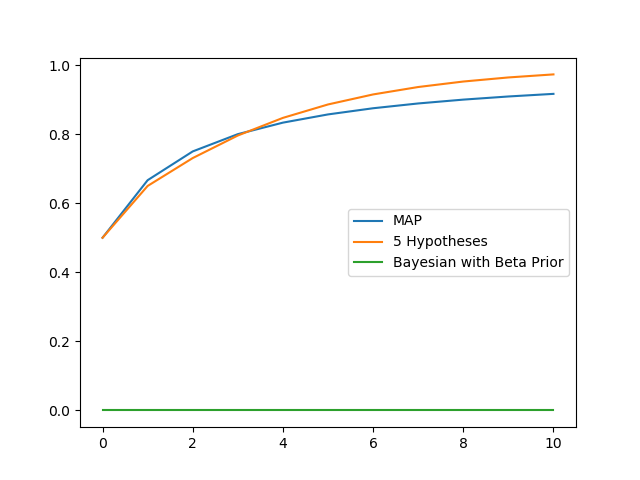
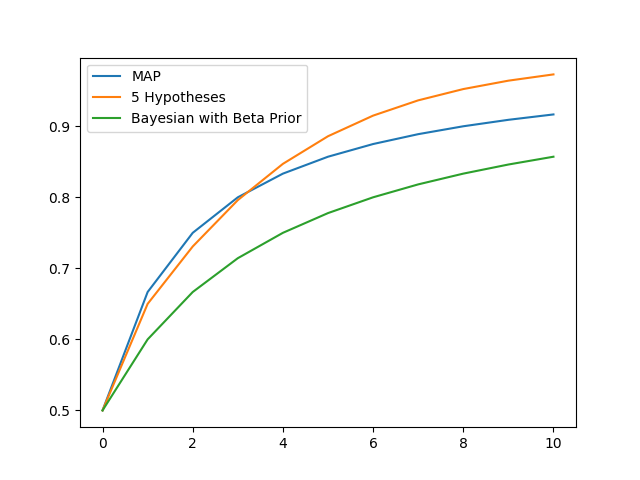
bayesian is finished

diff --git a/bayesian.py b/bayesian.py
@@ -56,7 +56,7 @@ class Posterior:
         prior = np.array([0.1, 0.2, 0.4, 0.2, 0.1])
         hypotheses = {1: (1.0, 0), 2: (0.75, 0.25), 3: (0.5, 0.5), 4: (0.25, 0.75), 5: (0, 1.0)}
         lime = 1
-        for d in range(self.N):
+        for d in self.limes:
             temp_sum = 0.0
             alpha = self.compute_alpha(d, hypotheses, prior)
             for i in range(1, len(hypotheses) + 1):
@@ -72,9 +72,13 @@ class Posterior:
         compute posterior with beta prior
         :return: estimates for diff. values of lime; shape:(N,)
         """
-        # WRITE the required CODE HERE and return the computed values
+        result = []
+        for N in range(self.N):
+            alpha = self.compute_infinite_beta(self.a + N, self.b)
+            p_lime = self.compute_infinite_beta(self.a + 1 + N, self.b) / alpha
+            result.append(p_lime)
 
-        return np.zeros(self.N)
+        return result
 
     def h_given_lime(self, d, h, p, alpha):
         lime = 1
@@ -89,6 +93,9 @@ class Posterior:
             alpha += p_lime
         return 1.0 / alpha
 
+    def compute_infinite_beta(self, a, b):
+        beta = gamma(a) * gamma(b) / gamma(a+b)
+        return beta
 
 if __name__ == '__main__':
     # Get data

diff --git a/decisionTree.py b/decisionTree.py
@@ -220,6 +220,10 @@ if __name__ == '__main__':
     # Decision tree trained with max info gain for choosing attributes
     model = DecisionTree()
     model.fit(examples, attribute_names, attribute_values)
+    print(model.ExpectedH('Est',examples))
+    # print(model.partition_given_attribute(examples,'Pat'))
+    for key, value in model.partition_given_attribute(examples,'Est').items():
+        print(key,len(value['pos']),len(value['neg']))
     y = model.predict(examples)
     print(y)
-    model.print()
+    # model.print()
